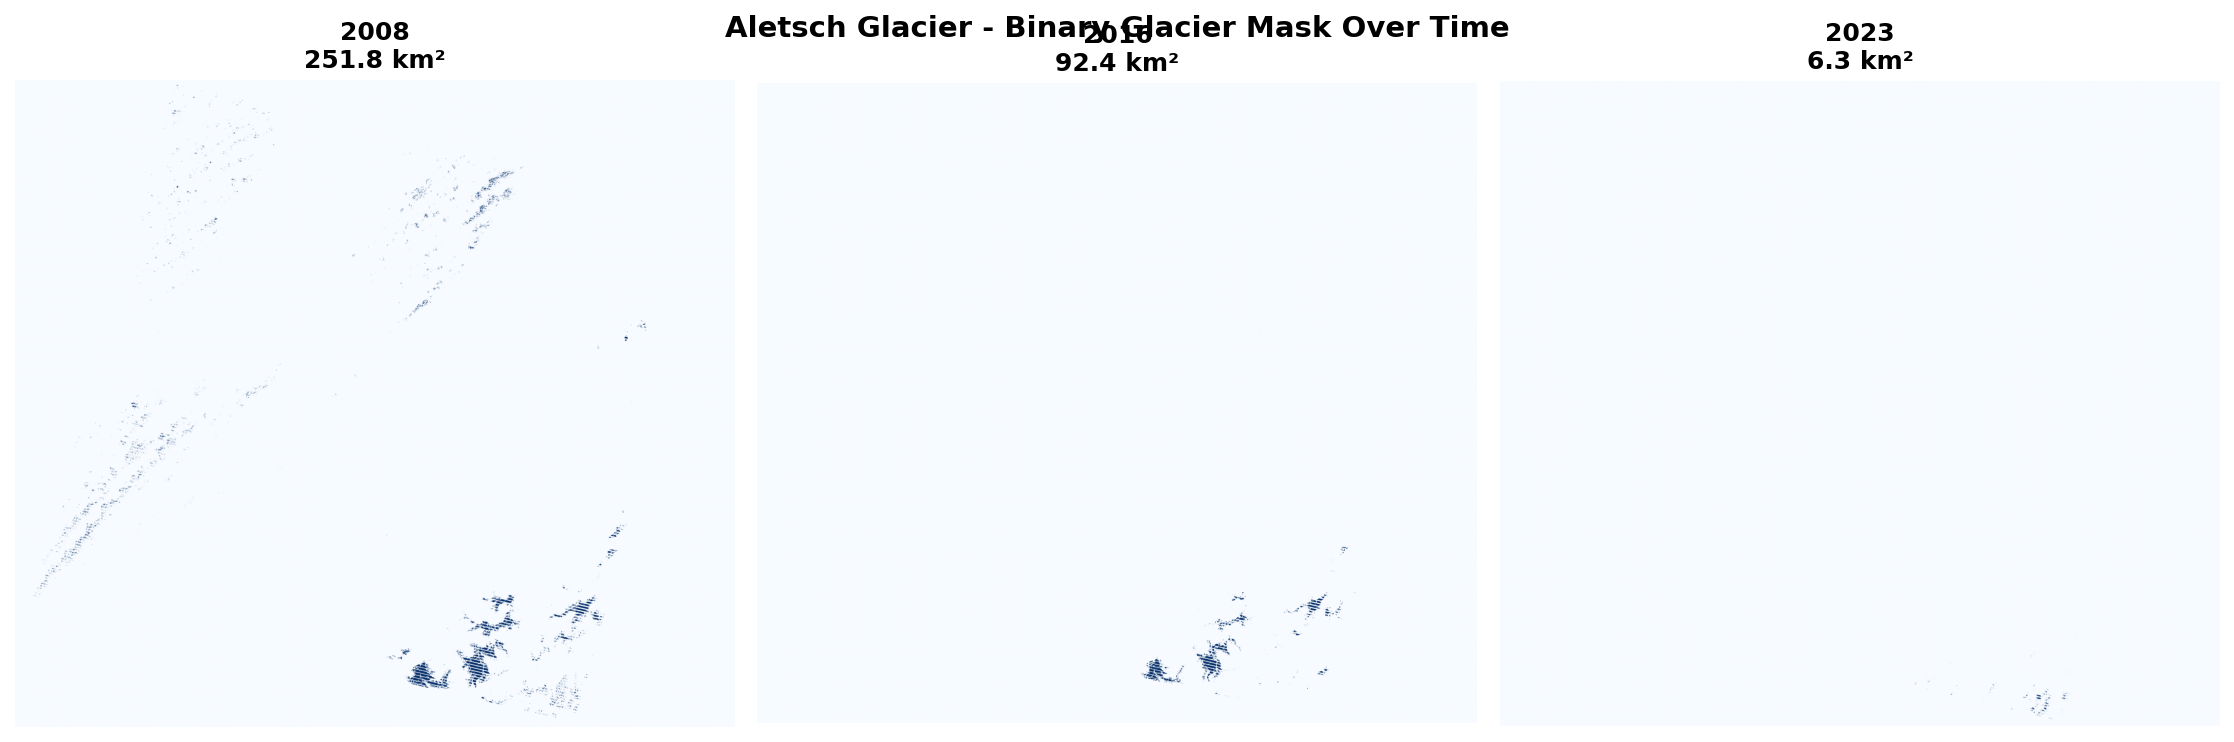
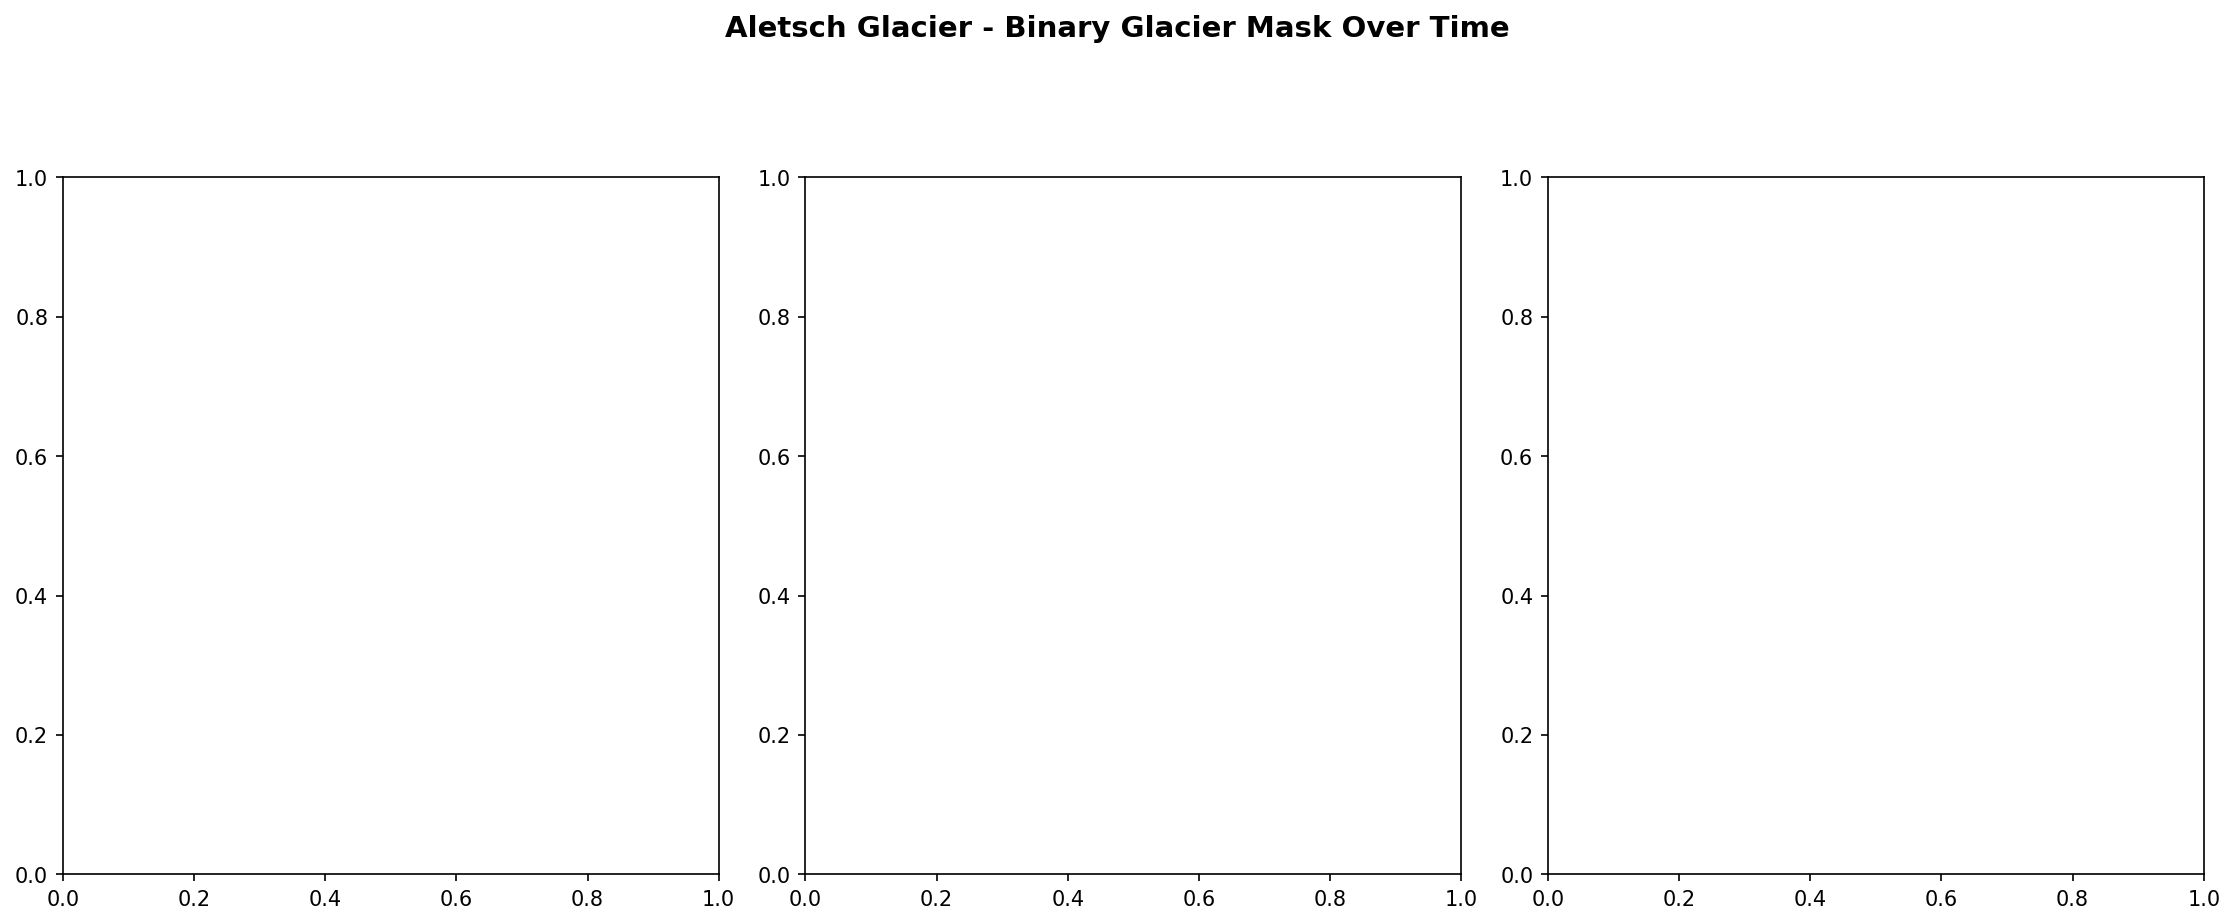
Download ERA5 climate data, generate temperature trend, snowfall, and temp vs area plots

diff --git a/scripts/plot_climate.py b/scripts/plot_climate.py
@@ -1,0 +1,146 @@
+"""
+Download and plot ERA5 climate data for Aletsch glacier region.
+Generates climate trend figures for the paper.
+"""
+
+import cdsapi
+import xarray as xr
+import numpy as np
+import matplotlib.pyplot as plt
+from pathlib import Path
+
+BBOX    = [7.8, 46.3, 8.2, 46.7]
+OUT_DIR = Path("data/raw/climate/aletsch")
+FIG_DIR = Path("paper/figures")
+OUT_DIR.mkdir(parents=True, exist_ok=True)
+FIG_DIR.mkdir(parents=True, exist_ok=True)
+
+client = cdsapi.Client()
+
+#  Download ERA5 monthly means 2000-2023 
+out_file = OUT_DIR / "era5_2000_2023.nc"
+
+if not out_file.exists():
+    print("Downloading ERA5 data...")
+    client.retrieve(
+        "reanalysis-era5-single-levels-monthly-means",
+        {
+            "product_type": "monthly_averaged_reanalysis",
+            "variable": [
+                "2m_temperature",
+                "total_precipitation",
+                "snowfall",
+            ],
+            "year":  [str(y) for y in range(2000, 2024)],
+            "month": ["06", "07", "08", "09"],
+            "time":  "00:00",
+            "area":  [46.7, 7.8, 46.3, 8.2],
+            "data_format": "netcdf",
+            "download_format": "unarchived",
+        },
+        str(out_file),
+    )
+    print(f"Saved: {out_file}")
+else:
+    print(f"Already exists: {out_file}")
+
+#  Load and process 
+print("Loading ERA5 data...")
+
+nc_files = [f for f in OUT_DIR.glob("*.nc") if "stream" in f.name]
+print(f"Found NetCDF files: {[f.name for f in nc_files]}")
+
+ds = xr.open_mfdataset(nc_files, engine="netcdf4", combine="by_coords")
+print(ds)
+
+# Spatial mean over the glacier region
+t2m    = ds["t2m"].mean(dim=["latitude", "longitude"]) - 273.15
+precip = ds["tp"].mean(dim=["latitude", "longitude"]) * 1000
+snow   = ds["sf"].mean(dim=["latitude", "longitude"]) * 1000
+
+# Annual summer mean (JJA+Sep)
+years      = sorted(set(t2m.valid_time.dt.year.values))
+temp_ann   = [float(t2m.sel(valid_time=t2m.valid_time.dt.year == y).mean()) for y in years]
+precip_ann = [float(precip.sel(valid_time=precip.valid_time.dt.year == y).mean()) for y in years]
+snow_ann   = [float(snow.sel(valid_time=snow.valid_time.dt.year == y).mean()) for y in years]
+
+#  Plot 1: Summer temperature trend 
+fig, ax = plt.subplots(figsize=(14, 5))
+
+ax.plot(years, temp_ann, "o-", color="#E53935", linewidth=2.5,
+        markersize=7, markerfacecolor="white", markeredgewidth=2)
+ax.fill_between(years, temp_ann, min(temp_ann), alpha=0.1, color="#E53935")
+
+# Trend line
+z    = np.polyfit(years, temp_ann, 1)
+p    = np.poly1d(z)
+ax.plot(years, p(years), "--", color="#B71C1C", linewidth=1.5, alpha=0.7,
+        label=f"Trend: {z[0]:+.3f}°C/yr")
+
+ax.set_xlabel("Year", fontsize=13)
+ax.set_ylabel("Mean Summer Temperature (°C)", fontsize=13)
+ax.set_title("Aletsch Region - Summer Temperature Trend (ERA5)\nJune–September Mean",
+             fontsize=14, fontweight="bold")
+ax.legend(fontsize=12)
+ax.grid(True, alpha=0.3)
+
+plt.tight_layout()
+plt.savefig(FIG_DIR / "aletsch_temperature_trend.png", dpi=150, bbox_inches="tight")
+plt.show()
+print("Saved: aletsch_temperature_trend.png")
+
+#  Plot 2: Snowfall trend 
+fig, ax = plt.subplots(figsize=(14, 5))
+
+ax.bar(years, snow_ann, color="#1565C0", alpha=0.7, label="Summer snowfall")
+
+z2 = np.polyfit(years, snow_ann, 1)
+p2 = np.poly1d(z2)
+ax.plot(years, p2(years), "--", color="#0D47A1", linewidth=2,
+        label=f"Trend: {z2[0]:+.4f} mm/yr")
+
+ax.set_xlabel("Year", fontsize=13)
+ax.set_ylabel("Mean Summer Snowfall (mm)", fontsize=13)
+ax.set_title("Aletsch Region - Summer Snowfall Trend (ERA5)\nJune–September Mean",
+             fontsize=14, fontweight="bold")
+ax.legend(fontsize=12)
+ax.grid(True, alpha=0.3, axis="y")
+
+plt.tight_layout()
+plt.savefig(FIG_DIR / "aletsch_snowfall_trend.png", dpi=150, bbox_inches="tight")
+plt.show()
+print("Saved: aletsch_snowfall_trend.png")
+
+#  Plot 3: Temperature vs glacier area 
+# Glacier areas from plot_retreat.py - hardcode what we got
+glacier_years = [2002,2003,2004,2005,2008,2009,2010,2011,2015,2016,2017,2022,2023]
+glacier_areas = [309.7,130.7,86.9,289.9,251.8,73.7,187.1,72.4,139.3,92.4,143.4,104.4,6.3]
+
+# Match years
+common_years  = [y for y in glacier_years if y in years]
+common_temps  = [temp_ann[years.index(y)] for y in common_years]
+common_areas  = [glacier_areas[glacier_years.index(y)] for y in common_years]
+
+fig, ax1 = plt.subplots(figsize=(14, 6))
+ax2 = ax1.twinx()
+
+ax1.plot(common_years, common_temps, "o-", color="#E53935", linewidth=2.5,
+         markersize=7, markerfacecolor="white", markeredgewidth=2, label="Temperature (°C)")
+ax2.plot(common_years, common_areas, "s--", color="#2196F3", linewidth=2.5,
+         markersize=7, markerfacecolor="white", markeredgewidth=2, label="Glacier Area (km²)")
+
+ax1.set_xlabel("Year", fontsize=13)
+ax1.set_ylabel("Summer Temperature (°C)", color="#E53935", fontsize=13)
+ax2.set_ylabel("Glacier Area (km²)", color="#2196F3", fontsize=13)
+ax1.set_title("Aletsch Glacier - Temperature vs Area\n(ERA5 + Landsat NDSI)",
+              fontsize=14, fontweight="bold")
+
+lines1, labels1 = ax1.get_legend_handles_labels()
+lines2, labels2 = ax2.get_legend_handles_labels()
+ax1.legend(lines1 + lines2, labels1 + labels2, fontsize=12)
+ax1.grid(True, alpha=0.3)
+
+plt.tight_layout()
+plt.savefig(FIG_DIR / "aletsch_temp_vs_area.png", dpi=150, bbox_inches="tight")
+plt.show()
+print("Saved: aletsch_temp_vs_area.png")

diff --git a/scripts/plot_retreat.py b/scripts/plot_retreat.py
@@ -198,11 +198,13 @@ if len(sample_years) >= 2:
         ax.set_title(f"{year}\n{areas_km2[years.index(year)]:.1f} km²",
                      fontsize=12, fontweight="bold")
         ax.axis("off")
+    
+    fig, axes = plt.subplots(1, len(sample_years), figsize=(5 * len(sample_years), 6))
 
     fig.suptitle("Aletsch Glacier - Binary Glacier Mask Over Time",
                  fontsize=14, fontweight="bold", y=1.02)
     plt.tight_layout()
-    plt.tight_layout(rect=[0, 0, 1, 0.98])
+    plt.tight_layout(rect=[0, 0, 1, 0.93])
     plt.savefig(FIG_DIR / "aletsch_mask_decades.png", dpi=150, bbox_inches="tight")
     plt.show()
     print("Saved: aletsch_mask_decades.png")